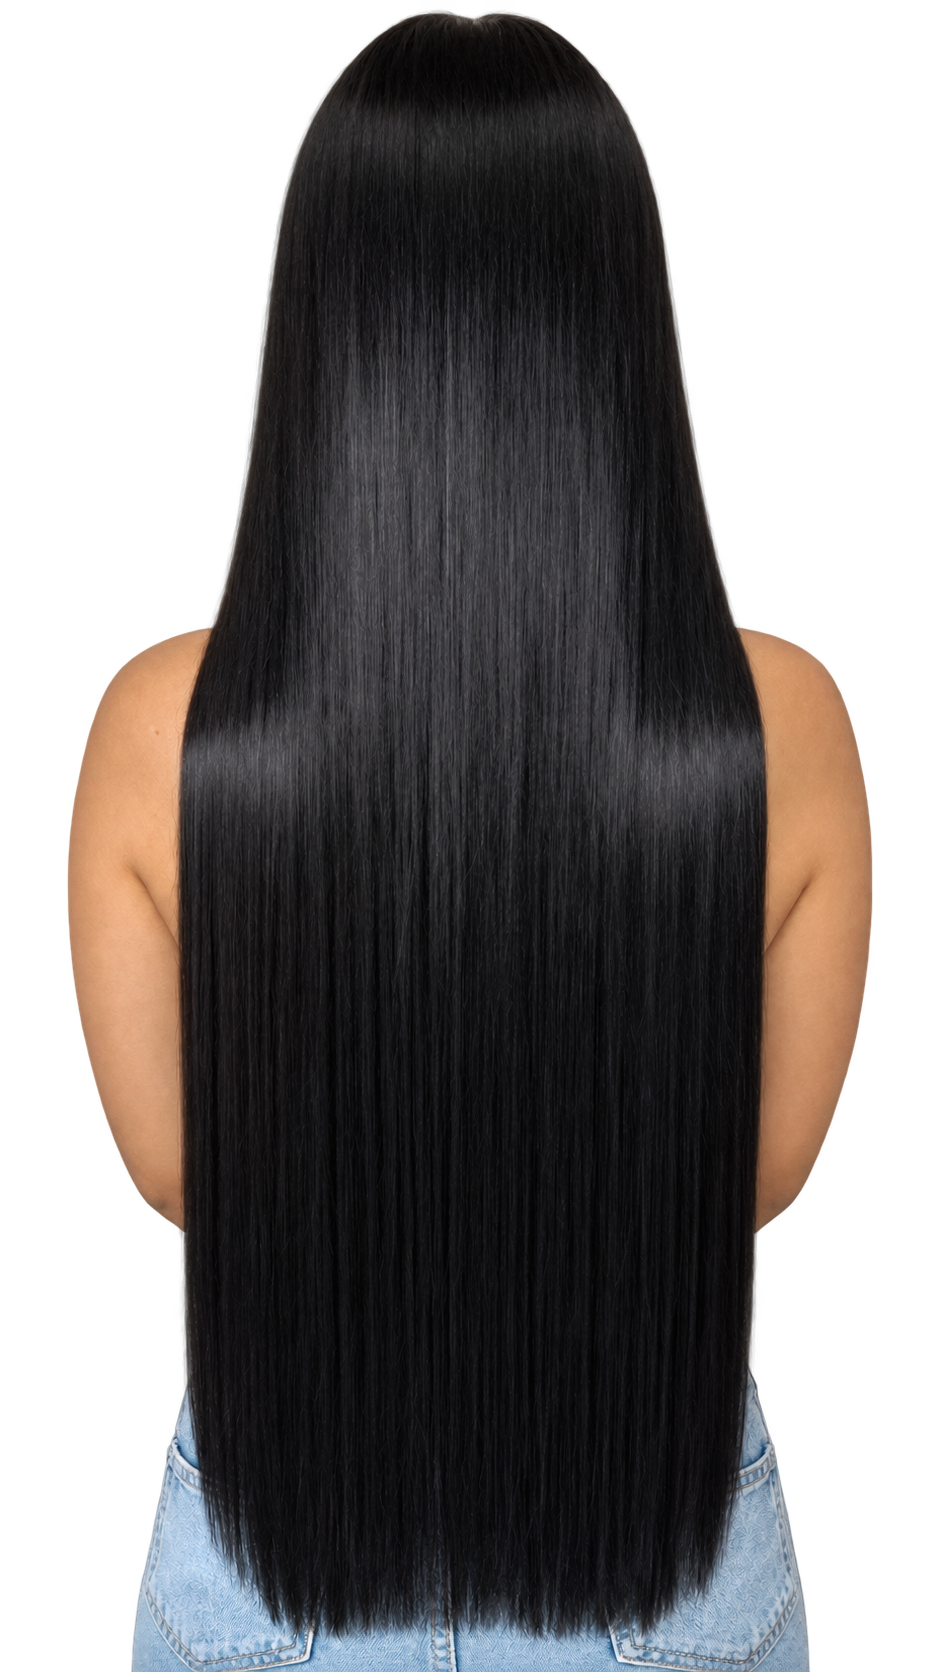
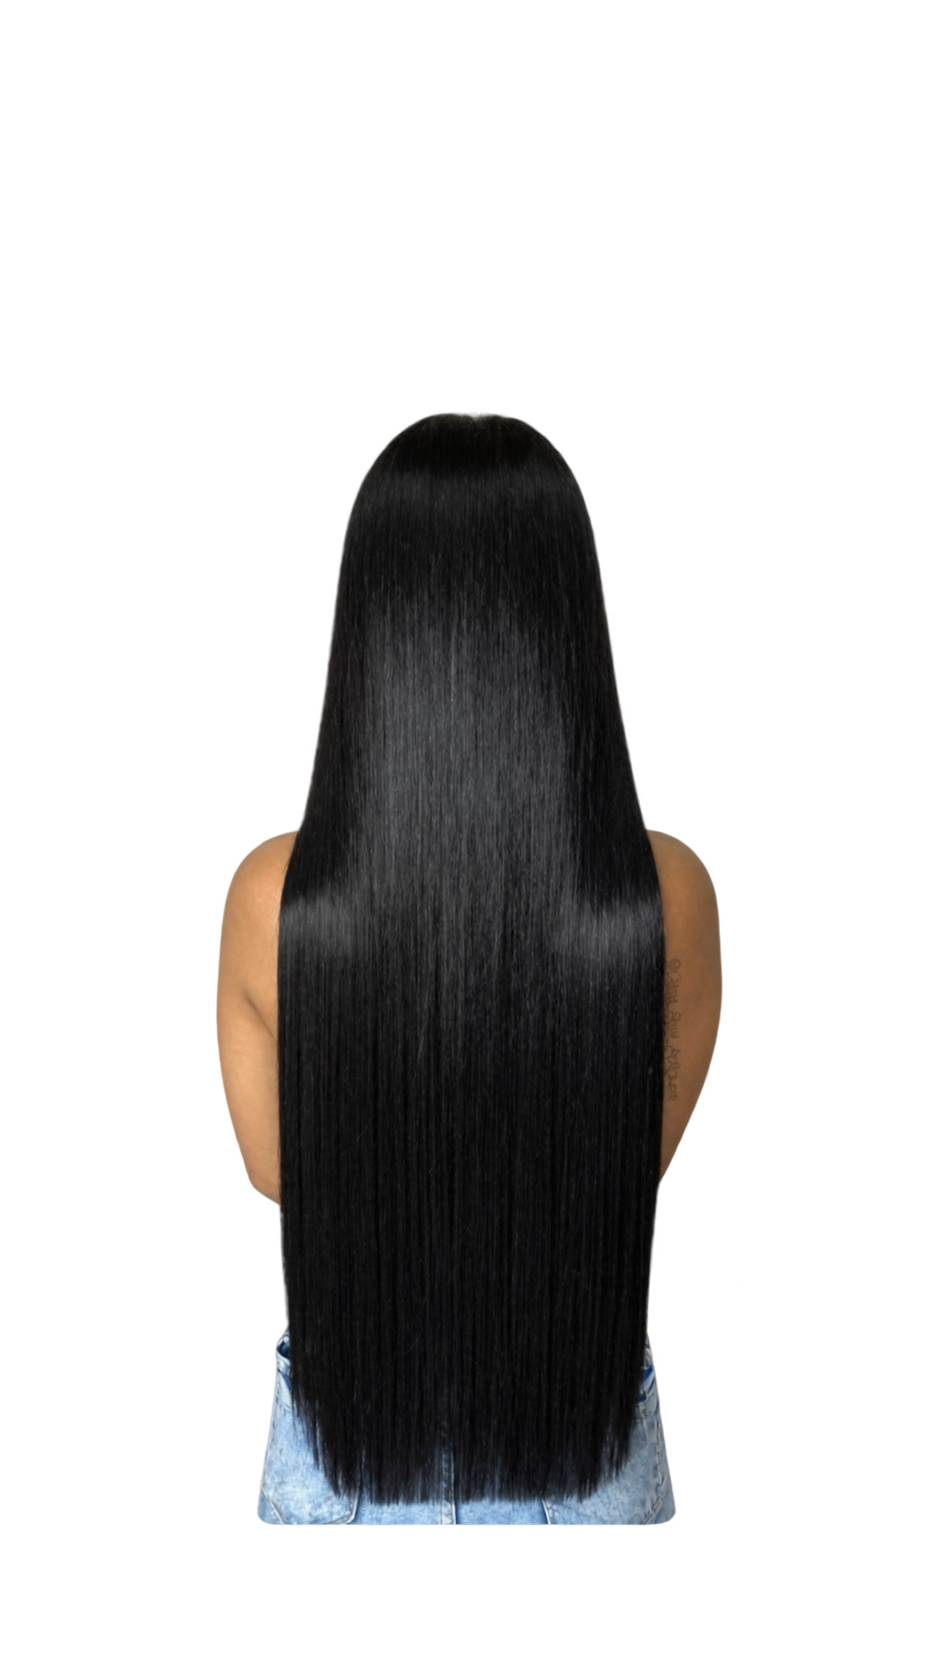
Ajusta intervalos de agenda e duracao em horas

diff --git a/app/admin/page.tsx b/app/admin/page.tsx
@@ -16,6 +16,7 @@ import SettingsManagement from "./settings-management";
 import UsersManagement from "./users-management";
 import type { Permission } from "../../lib/permissions";
 import { formatWhatsapp } from "../../lib/masks";
+import { formatDurationInHours } from "../../lib/scheduling";
 import { PublicBrand } from "../public-settings";
 import PushNotificationsControl from "../push-notifications-control";
 import OpenDatesCalendar from "./open-dates-calendar";
@@ -72,7 +73,7 @@ type ServiceForm = {
   categoryId: string;
   name: string;
   description: string;
-  durationMinutes: string;
+  durationHours: string;
   priceType: string;
   price: string;
   active: boolean;
@@ -122,7 +123,7 @@ const emptyService: ServiceForm = {
   categoryId: "",
   name: "",
   description: "",
-  durationMinutes: "60",
+  durationHours: "1",
   priceType: "fixed",
   price: "",
   active: true,
@@ -557,7 +558,7 @@ export default function AdminPage() {
       categoryId: service.categoryId ?? "",
       name: service.name,
       description: service.description,
-      durationMinutes: String(service.durationMinutes),
+      durationHours: String(Math.round((service.durationMinutes / 60) * 100) / 100),
       priceType: service.priceType,
       price:
         service.priceCents === null ? "" : String(service.priceCents / 100),
@@ -581,7 +582,7 @@ export default function AdminPage() {
           categoryId: serviceForm.categoryId || null,
           name: serviceForm.name,
           description: serviceForm.description,
-          durationMinutes: Number(serviceForm.durationMinutes),
+          durationMinutes: Math.round(Number(serviceForm.durationHours.replace(",", ".")) * 60),
           priceType: serviceForm.priceType,
           priceCents,
           active: serviceForm.active,
@@ -1076,7 +1077,7 @@ export default function AdminPage() {
                                     <h4>Serviços disponíveis às {rescheduleTime}</h4>
                                     {rescheduleServicesLoading ? <p>Consultando serviços para este horário…</p> : rescheduleServices.length ? <div className="booking-service-grid">
                                       {rescheduleServices.map((service) => <button className={`booking-service-option ${service.id === rescheduleServiceId ? "selected" : ""}`} type="button" key={service.id} aria-pressed={service.id === rescheduleServiceId} onClick={() => setRescheduleServiceId(service.id)}>
-                                        <small>{service.categoryName ?? "Serviço"}</small><strong>{service.name}</strong><span>{service.durationMinutes} min · {service.priceCents === null ? "Sob consulta" : money(service.priceCents)}</span>
+                                        <small>{service.categoryName ?? "Serviço"}</small><strong>{service.name}</strong><span>{formatDurationInHours(service.durationMinutes)} · {service.priceCents === null ? "Sob consulta" : money(service.priceCents)}</span>
                                       </button>)}
                                     </div> : <p>Nenhum serviço disponível para esta profissional nesse horário.</p>}
                                     <button className="admin-reschedule-confirm" type="button" disabled={saving || rescheduleServicesLoading || !rescheduleServiceId} onClick={() => void updateStatus(appointment.id, appointment.status, rescheduleDate, rescheduleTime, rescheduleServiceId)}>Confirmar reagendamento</button>
@@ -1283,9 +1284,7 @@ export default function AdminPage() {
                             </h2>
                           </div>
                           <p>
-                            Estes horários se aplicam às datas liberadas no mesmo dia da semana. Escreva a entrada e a saída. Ao completar um
-                            período, outro campo aparece para você acrescentar
-                            mais um horário.
+                            Estes horários se aplicam às datas liberadas no mesmo dia da semana. Informe apenas o início de cada período; o intervalo até o próximo horário será calculado automaticamente.
                           </p>
                         </div>
                         <div className="admin-hours-list">
@@ -1345,7 +1344,7 @@ export default function AdminPage() {
                                   </div>
                                 ))}
                               </div>
-                              <p>Informe os horários de início dos atendimentos. Um novo campo aparece após cada horário.</p>
+                              <p>Adicione outro horário de início para abrir um novo período. O sistema calcula os horários disponíveis entre um início e o próximo.</p>
                             </section>
                           ))}
                         </div>
@@ -1439,17 +1438,17 @@ export default function AdminPage() {
                     </label>
                     <div className="admin-form-grid">
                       <label>
-                        Duração (minutos)
+                        Duração (horas)
                         <input
                           type="number"
-                          min="15"
-                          max="720"
-                          step="15"
-                          value={serviceForm.durationMinutes}
+                          min="0.25"
+                          max="12"
+                          step="0.01"
+                          value={serviceForm.durationHours}
                           onChange={(event) =>
                             setServiceForm((current) => ({
                               ...current,
-                              durationMinutes: event.target.value,
+                              durationHours: event.target.value,
                             }))
                           }
                           required
@@ -1543,7 +1542,7 @@ export default function AdminPage() {
                             {money(service.priceCents)}
                           </strong>
                           <small>
-                            {service.durationMinutes} minutos ·{" "}
+                            {formatDurationInHours(service.durationMinutes)} ·{" "}
                             {service.active ? "ativo" : "inativo"}
                           </small>
                           <button

diff --git a/app/home.css b/app/home.css
@@ -64,13 +64,14 @@ html:has(.studio-home){scroll-behavior:smooth;scroll-padding-top:28px}
 .home-hair-length-visual{position:relative;width:min(100%,520px);justify-self:center;isolation:isolate}
 .home-hair-length-visual>img{display:block;width:100%;height:auto;object-fit:contain}
 .home-hair-length-visual figcaption{position:absolute;inset:0}
-.home-hair-guide{position:absolute;left:10%;right:10%;display:flex;align-items:center;gap:8px;color:#171715;font-size:clamp(18px,2vw,25px);font-weight:700;line-height:1;text-shadow:0 1px 2px #f1f0eb}
-.home-hair-guide>i{position:relative;display:block;height:2px;flex:1;background:#d4af37}
-.home-hair-guide>i::after{position:absolute;top:50%;width:9px;height:9px;border-top:2px solid #d4af37;border-right:2px solid #d4af37;content:""}
-.home-hair-guide-p{top:54%}.home-hair-guide-p>i::after,.home-hair-guide-g>i::after{right:0;transform:translateY(-50%) rotate(45deg)}
-.home-hair-guide-m{top:65%}.home-hair-guide-m>i::after,.home-hair-guide-ex>i::after{left:0;transform:translateY(-50%) rotate(-135deg)}
-.home-hair-guide-g{top:75%}.home-hair-guide-ex{top:85%}
-@media(max-width:760px){.studio-home .home-hair-length{grid-template-columns:minmax(0,1fr);gap:26px;padding-top:56px;padding-bottom:56px}.studio-home .home-hair-length-copy h2{font-size:clamp(38px,10vw,54px);max-width:12ch;margin-bottom:16px}.home-hair-length-copy p{font-size:16px}.home-hair-length-visual{width:min(100%,420px)}.home-hair-guide{left:8%;right:8%;gap:5px;font-size:20px}.home-hair-guide>i{height:2px}}
+.home-hair-guide{position:absolute;height:2px;background:#f1f0eb;filter:drop-shadow(0 1px 2px #171715)}
+.home-hair-guide::after{position:absolute;top:50%;width:9px;height:9px;border-top:2px solid #f1f0eb;border-right:2px solid #f1f0eb;content:""}
+.home-hair-guide-p{top:53.6%;left:31.7%;right:14.5%}.home-hair-guide-p::after,.home-hair-guide-g::after{right:0;transform:translateY(-50%) rotate(45deg)}
+.home-hair-guide-m{top:64.75%;left:14.4%;right:31.6%}.home-hair-guide-m::after,.home-hair-guide-ex::after{left:0;transform:translateY(-50%) rotate(-135deg)}
+.home-hair-guide-g{top:74.6%;left:26.7%;right:19.1%}.home-hair-guide-ex{top:84.4%;left:17.7%;right:19.4%}
+.home-hair-size{position:absolute;transform:translateX(-50%);color:#171715;font-size:clamp(18px,2vw,25px);font-weight:700;line-height:1;text-shadow:0 1px 2px #f1f0eb}
+.home-hair-size-p{top:47.5%;left:81.5%}.home-hair-size-m{top:58.9%;left:16.7%}.home-hair-size-g{top:68%;left:81.5%}.home-hair-size-ex{top:77.5%;left:16.7%}
+@media(max-width:760px){.studio-home .home-hair-length{grid-template-columns:minmax(0,1fr);gap:26px;padding-top:56px;padding-bottom:56px}.studio-home .home-hair-length-copy h2{font-size:clamp(38px,10vw,54px);max-width:12ch;margin-bottom:16px}.home-hair-length-copy p{font-size:16px}.home-hair-length-visual{width:min(100%,420px)}.home-hair-size{font-size:20px}.home-hair-guide::after{width:7px;height:7px}}
 
 .booking-page{--home-accent:#d4af37;--home-paper:#f1f0eb}
 .home-calendars{display:flex;flex-wrap:wrap;gap:32px;margin-top:32px}.home-calendar{width:100%;max-width:540px;background:#181815;padding:28px}.home-calendar h3{text-transform:capitalize;margin-bottom:24px;font-size:25px}.home-calendar table{width:100%;table-layout:fixed;border-spacing:5px;border-collapse:separate}.home-calendar th{font-size:14px;font-weight:400;padding:8px 0;color:#c7c5bd}.home-calendar td{text-align:center;padding:0;height:54px}.home-calendar td a,.home-calendar td button,.home-calendar td>span{display:flex;align-items:center;justify-content:center;min-height:48px;font-variant-numeric:tabular-nums}.home-calendar td a,.home-calendar td button{width:100%;border:0;cursor:pointer;background:var(--home-accent);color:#10100e;font:inherit;font-weight:600;transition:transform .2s}.home-calendar td a:hover,.home-calendar td button:hover{transform:translateY(-2px)}.home-calendar td button.selected{outline:3px solid var(--home-paper);outline-offset:2px}.home-calendar td>span{color:#92928a}.home-calendar [aria-current=date]{text-decoration:underline;text-underline-offset:5px}.home-calendar-legend{display:flex;align-items:center;gap:10px;margin-top:20px!important;font-size:14px}.home-calendar-legend>span{width:14px;height:14px;background:var(--home-accent);flex-shrink:0}@media(max-width:760px){.home-calendar{padding:20px 10px}.home-calendar h3{padding:0 10px;font-size:23px}.home-calendar table{border-spacing:3px}.home-calendar th{font-size:12px}.home-calendar td{height:46px}.home-calendar td a,.home-calendar td>span{min-height:44px}.home-calendar-legend{padding:0 10px}}@media(prefers-reduced-motion:reduce){.home-calendar td a:hover,.home-calendar td button:hover{transform:none}}

diff --git a/app/page.tsx b/app/page.tsx
@@ -5,6 +5,7 @@ import { and, asc, eq } from "drizzle-orm";
 import { getDb } from "../db";
 import { portfolioItems, serviceCategories, services } from "../db/schema";
 import { getPublicSettings } from "../lib/public-settings";
+import { formatDurationInHours } from "../lib/scheduling";
 import { instagramHref, whatsappHref } from "../lib/public-links";
 import HomeInteractions from "./home-interactions";
 import HomeSchedule from "./home-schedule";
@@ -56,7 +57,7 @@ async function HomeServices() {
   return (
     <section className="home-services home-section" aria-labelledby="services-title">
       <div className="home-section-top"><h2 id="services-title">O seu próximo cuidado.</h2><a className="home-link" href="/servicos">Todos os serviços ↗</a></div>
-      {serviceRows.length ? <div className="home-service-list">{serviceRows.map(service => <a href="/agendar" key={service.id} className="home-service"><h3>{service.name}</h3><p>{service.description}</p><div><span>{service.duration >= 60 ? `${Math.floor(service.duration / 60)}h${service.duration % 60 ? String(service.duration % 60).padStart(2, "0") : ""}` : `${service.duration} min`}</span><strong>{service.price === null ? "Sob consulta" : `${service.priceType === "starting_at" ? "A partir de " : ""}${new Intl.NumberFormat("pt-BR", { style: "currency", currency: "BRL" }).format(service.price / 100)}`}</strong></div><span className="home-service-arrow" aria-hidden="true">↗</span></a>)}</div> : <div className="home-service-empty"><p>Uma mudança de visual ou um momento de cuidado? Conheça os serviços e escolha o atendimento para você.</p><a className="home-button" href="/servicos">Explorar serviços ↗</a></div>}
+      {serviceRows.length ? <div className="home-service-list">{serviceRows.map(service => <a href="/agendar" key={service.id} className="home-service"><h3>{service.name}</h3><p>{service.description}</p><div><span>{formatDurationInHours(service.duration)}</span><strong>{service.price === null ? "Sob consulta" : `${service.priceType === "starting_at" ? "A partir de " : ""}${new Intl.NumberFormat("pt-BR", { style: "currency", currency: "BRL" }).format(service.price / 100)}`}</strong></div><span className="home-service-arrow" aria-hidden="true">↗</span></a>)}</div> : <div className="home-service-empty"><p>Uma mudança de visual ou um momento de cuidado? Conheça os serviços e escolha o atendimento para você.</p><a className="home-button" href="/servicos">Explorar serviços ↗</a></div>}
     </section>
   );
 }
@@ -110,10 +111,14 @@ export default async function Home() {
         <figure className="home-hair-length-visual">
           <img src="/hair-length-guide.png" alt="Cabelo longo e liso, com indicações de comprimento P, M, G e EX." loading="lazy" />
           <figcaption aria-label="Comprimentos: P, M, G e EX">
-            <span className="home-hair-guide home-hair-guide-p" aria-hidden="true"><span>P</span><i /></span>
-            <span className="home-hair-guide home-hair-guide-m" aria-hidden="true"><i /><span>M</span></span>
-            <span className="home-hair-guide home-hair-guide-g" aria-hidden="true"><span>G</span><i /></span>
-            <span className="home-hair-guide home-hair-guide-ex" aria-hidden="true"><i /><span>EX</span></span>
+            <span className="home-hair-guide home-hair-guide-p" aria-hidden="true" />
+            <span className="home-hair-size home-hair-size-p" aria-hidden="true">P</span>
+            <span className="home-hair-guide home-hair-guide-m" aria-hidden="true" />
+            <span className="home-hair-size home-hair-size-m" aria-hidden="true">M</span>
+            <span className="home-hair-guide home-hair-guide-g" aria-hidden="true" />
+            <span className="home-hair-size home-hair-size-g" aria-hidden="true">G</span>
+            <span className="home-hair-guide home-hair-guide-ex" aria-hidden="true" />
+            <span className="home-hair-size home-hair-size-ex" aria-hidden="true">EX</span>
           </figcaption>
         </figure>
       </section>

diff --git a/app/servicos/page.tsx b/app/servicos/page.tsx
@@ -3,6 +3,7 @@ import { asc, eq } from "drizzle-orm";
 import { getDb } from "../../db";
 import { serviceCategories, services } from "../../db/schema";
 import { getPublicSettings } from "../../lib/public-settings";
+import { formatDurationInHours } from "../../lib/scheduling";
 import { PublicBrand, PublicStudioName, PublicWhatsappLink } from "../public-settings";
 
 /* eslint-disable @next/next/no-html-link-for-pages -- public navigation follows the existing native-link flow. */
@@ -32,7 +33,7 @@ export default async function ServicesPage() {
     <header className="site-header"><PublicBrand /><nav className="main-nav" aria-label="Navegação principal"><a href="/">Início</a><a href="/servicos" aria-current="page">Serviços</a><a href="/trabalhos">Trabalhos</a><a href="/contato">Contato</a><a href="/minha-conta">Minha conta</a></nav><a className="header-cta" href="/agendar">Agendar horário ↗</a></header>
     <section className="catalog-hero"><div><h1>O cuidado<br />que é seu.</h1><p>Conheça os serviços do studio, confira os valores e escolha o seu próximo atendimento.</p></div>{groups.length > 0 && <nav className="catalog-index" aria-label="Categorias de serviços">{groups.map(group => <a href={`#categoria-${group.id}`} key={group.id}>{group.name} <i aria-hidden="true">↓</i></a>)}</nav>}</section>
     <section className="live-catalog" aria-label="Serviços disponíveis">
-      {groups.map(group => <section className="live-catalog-category" id={`categoria-${group.id}`} key={group.id} aria-labelledby={`titulo-${group.id}`}><h2 id={`titulo-${group.id}`}>{group.name}</h2><div>{group.services.map(service => <article key={service.id}><div><h3>{service.name}</h3><p>{service.description}</p></div><div className="live-service-details"><span>{service.duration >= 60 ? `${Math.floor(service.duration / 60)}h${service.duration % 60 ? String(service.duration % 60).padStart(2, "0") : ""}` : `${service.duration} min`}</span><strong>{service.price === null ? "Sob consulta" : `${service.priceType === "starting_at" ? "A partir de " : ""}${new Intl.NumberFormat("pt-BR", { style: "currency", currency: "BRL" }).format(service.price / 100)}`}</strong><a className="button button-gold" href={`/agendar?service=${encodeURIComponent(service.id)}`}>Agendar serviço ↗</a></div></article>)}</div></section>)}
+      {groups.map(group => <section className="live-catalog-category" id={`categoria-${group.id}`} key={group.id} aria-labelledby={`titulo-${group.id}`}><h2 id={`titulo-${group.id}`}>{group.name}</h2><div>{group.services.map(service => <article key={service.id}><div><h3>{service.name}</h3><p>{service.description}</p></div><div className="live-service-details"><span>{formatDurationInHours(service.duration)}</span><strong>{service.price === null ? "Sob consulta" : `${service.priceType === "starting_at" ? "A partir de " : ""}${new Intl.NumberFormat("pt-BR", { style: "currency", currency: "BRL" }).format(service.price / 100)}`}</strong><a className="button button-gold" href={`/agendar?service=${encodeURIComponent(service.id)}`}>Agendar serviço ↗</a></div></article>)}</div></section>)}
       {!groups.length && <div className="catalog-empty" role={error ? "status" : undefined}><h2>{error ? "Vamos tentar novamente?" : "Seu cuidado começa com uma conversa."}</h2><p>{error ? "Não foi possível consultar os serviços agora. Tente novamente ou fale com o studio." : "Entre em contato para consultar os atendimentos disponíveis."}</p><PublicWhatsappLink className="button">Falar com o studio ↗</PublicWhatsappLink></div>}
     </section>
     <section className="catalog-note"><h2>Qual serviço escolher?</h2><p>Conte para o studio o que você deseja para o seu cabelo. Vamos orientar sua escolha antes do agendamento.</p><PublicWhatsappLink className="outline-link">Conversar pelo WhatsApp ↗</PublicWhatsappLink></section>

diff --git a/lib/scheduling.ts b/lib/scheduling.ts
@@ -14,6 +14,10 @@ export function addMinutes(startTime: string, durationMinutes: number) {
   return `${String(Math.floor(total / 60)).padStart(2, "0")}:${String(total % 60).padStart(2, "0")}`;
 }
 
+export function formatDurationInHours(durationMinutes: number) {
+  return `${new Intl.NumberFormat("pt-BR", { maximumFractionDigits: 2 }).format(durationMinutes / 60)} h`;
+}
+
 export function rangesOverlap(first: TimeRange, second: TimeRange) {
   return first.startTime < second.endTime && first.endTime > second.startTime;
 }
@@ -36,21 +40,23 @@ export function buildConfiguredStartSlots(periods: { startTime: string; endTime:
   if (durationMinutes <= 0) return [];
 
   const slots: string[] = [];
-  for (const hours of [...periods].sort((first, second) => first.startTime.localeCompare(second.startTime))) {
+  const orderedPeriods = [...periods].sort((first, second) => first.startTime.localeCompare(second.startTime));
+  for (const [index, hours] of orderedPeriods.entries()) {
     // A configured business-hours row is a start time. Its stored endTime was
     // derived from the services assigned at the time it was saved and can be
     // stale when a longer service is added later.
-    if (timeToMinutes(hours.startTime) + durationMinutes >= 24 * 60) continue;
-
-    const range = {
-      startTime: hours.startTime,
-      endTime: addMinutes(hours.startTime, durationMinutes),
-    };
+    const boundary = orderedPeriods[index + 1]?.startTime ?? hours.endTime;
+    const windowEnd = timeToMinutes(boundary);
+    const start = timeToMinutes(hours.startTime);
     const breakRange = hours.breakStart && hours.breakEnd ? { startTime: hours.breakStart, endTime: hours.breakEnd } : null;
 
-    if (breakRange && rangesOverlap(range, breakRange)) continue;
-    if (unavailable.some((item) => rangesOverlap(range, item))) continue;
-    slots.push(hours.startTime);
+    for (let minute = start; minute + durationMinutes <= windowEnd && minute + durationMinutes < 24 * 60; minute += 30) {
+      const startTime = `${String(Math.floor(minute / 60)).padStart(2, "0")}:${String(minute % 60).padStart(2, "0")}`;
+      const range = { startTime, endTime: addMinutes(startTime, durationMinutes) };
+      if (breakRange && rangesOverlap(range, breakRange)) continue;
+      if (unavailable.some((item) => rangesOverlap(range, item))) continue;
+      slots.push(startTime);
+    }
   }
 
   return [...new Set(slots)].sort();

diff --git a/app/agendar/page.tsx b/app/agendar/page.tsx
@@ -8,7 +8,7 @@ import { formatWhatsapp, normalizeWhatsapp } from "../../lib/masks";
 import { whatsappHref } from "../../lib/public-links";
 import { PublicBrand, usePublicSettings } from "../public-settings";
 import CalendarMonths from "../calendar-months";
-import { todayInFortaleza } from "../../lib/scheduling";
+import { formatDurationInHours, todayInFortaleza } from "../../lib/scheduling";
 
 type Service = {
   id: string;
@@ -105,10 +105,7 @@ function dateLabel(value: string) {
     .replace(".", "");
 }
 function durationLabel(minutes: number) {
-  if (minutes < 60) return `${minutes} min`;
-  return minutes % 60 === 0
-    ? `${minutes / 60}h`
-    : `${Math.floor(minutes / 60)}h${String(minutes % 60).padStart(2, "0")}`;
+  return formatDurationInHours(minutes);
 }
 function priceLabel(service: Service) {
   if (service.priceCents === null) return "Sob consulta";
